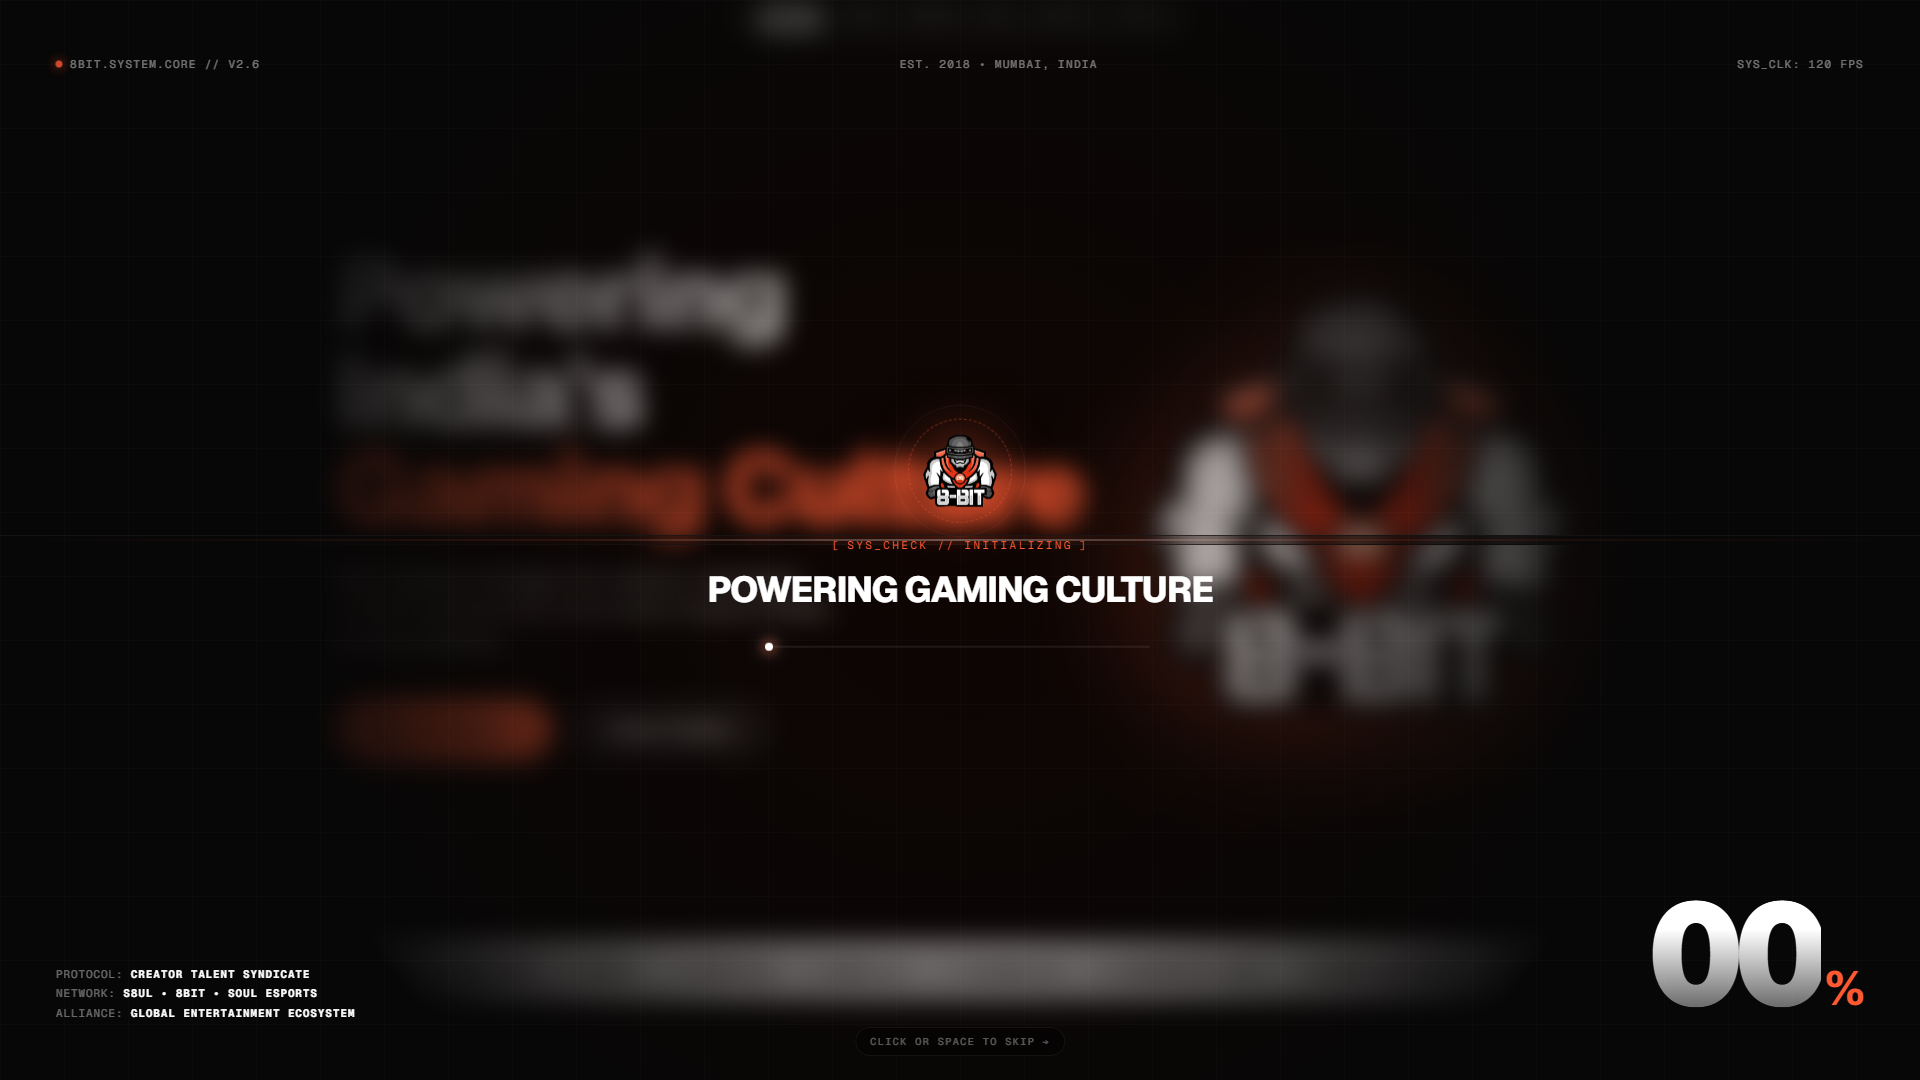
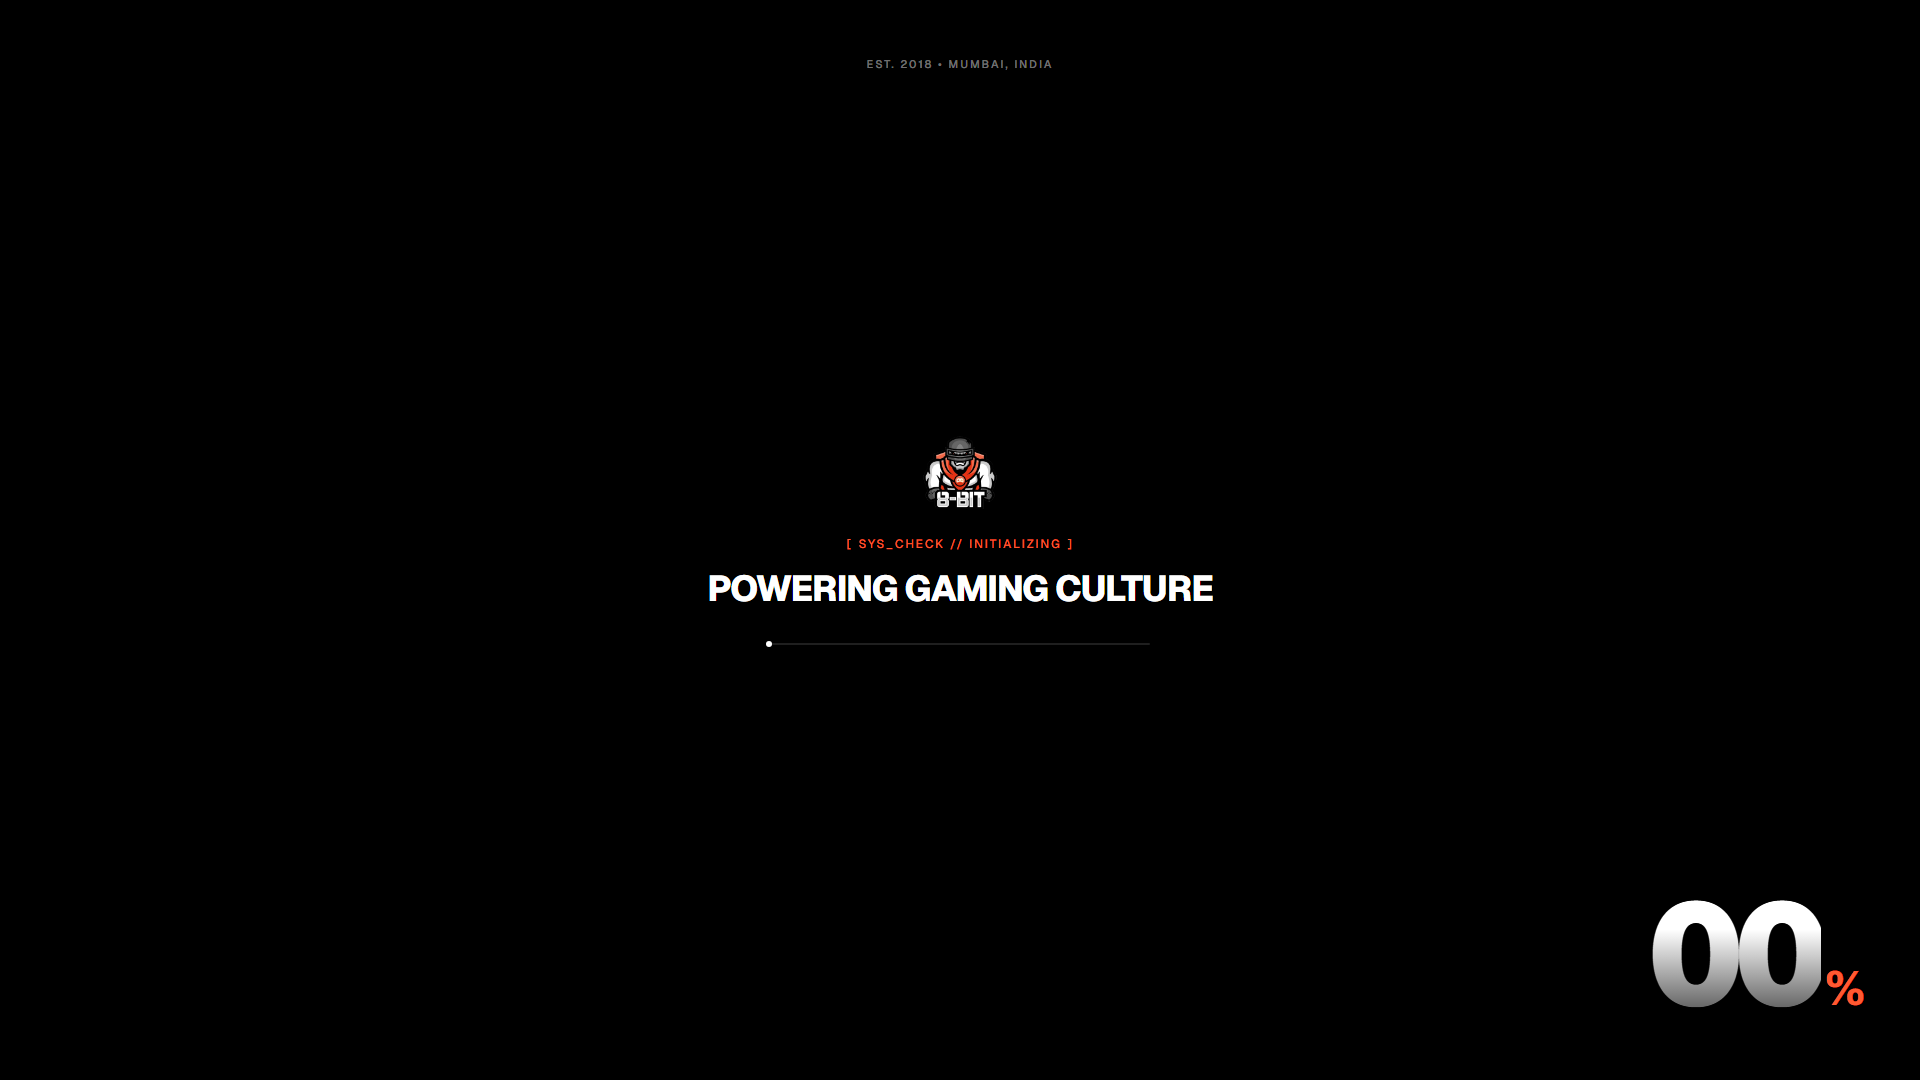
feat(preloader): apply custom design refinements to Concept 1 - solid black bg, matte minimal styling, pure Geist typography, clean UI without telemetry clutter

diff --git a/preloader-preview.html b/preloader-preview.html
@@ -211,6 +211,7 @@
       inset: 0;
       width: 100vw;
       height: 100vh;
+      background: #000000;
       z-index: 99990;
       pointer-events: all;
     }
@@ -255,15 +256,17 @@
       inset: 0;
       width: 100%;
       height: 100%;
+      background: #000000;
       overflow: hidden;
       display: flex;
       flex-direction: column;
       justify-content: space-between;
       padding: clamp(24px, 4vw, 56px);
       user-select: none;
+      font-family: var(--font-primary);
     }
 
-    /* Shutter panels */
+    /* Shutter panels - Pure Solid Black, Zero Blur Bleed */
     .telemetry-shutter-top,
     .telemetry-shutter-bottom {
       position: absolute;
@@ -271,35 +274,25 @@
       right: 0;
       width: 100%;
       height: 50.5%;
-      background: #080808;
+      background: #000000;
       z-index: 1;
+      border: none;
       transition: transform 1050ms cubic-bezier(0.85, 0, 0.15, 1);
     }
 
     .telemetry-shutter-top {
       top: 0;
-      border-bottom: 1px solid rgba(255, 255, 255, 0.05);
-      background: radial-gradient(circle at 50% 100%, rgba(255, 89, 49, 0.06) 0%, #070707 65%);
+      background: #000000;
     }
 
     .telemetry-shutter-bottom {
       bottom: 0;
-      border-top: 1px solid rgba(255, 255, 255, 0.05);
-      background: radial-gradient(circle at 50% 0%, rgba(255, 89, 49, 0.06) 0%, #070707 65%);
+      background: #000000;
     }
 
-    /* Luminous horizontal seam beam */
+    /* Seam beam disabled - No glowing lines */
     .telemetry-seam-beam {
-      position: absolute;
-      top: 50%;
-      left: 0;
-      right: 0;
-      height: 1px;
-      background: linear-gradient(90deg, transparent 0%, rgba(255, 89, 49, 0.4) 30%, #FFFFFF 50%, rgba(255, 89, 49, 0.4) 70%, transparent 100%);
-      z-index: 2;
-      transform: translateY(-50%);
-      opacity: 0.6;
-      transition: opacity 300ms ease;
+      display: none;
     }
 
     .preloader-concept-telemetry.is-unveiling .telemetry-shutter-top {
@@ -310,25 +303,14 @@
       transform: translateY(100%);
     }
 
-    .preloader-concept-telemetry.is-unveiling .telemetry-seam-beam {
-      opacity: 0;
-    }
-
     .preloader-concept-telemetry.is-unveiling .telemetry-content {
       opacity: 0;
-      transform: scale(0.96);
+      transform: scale(0.98);
       transition: opacity 350ms ease, transform 550ms cubic-bezier(0.85, 0, 0.15, 1);
     }
 
     .telemetry-grid-bg {
-      position: absolute;
-      inset: 0;
-      background-size: 64px 64px;
-      background-image: 
-        linear-gradient(to right, rgba(255, 255, 255, 0.015) 1px, transparent 1px),
-        linear-gradient(to bottom, rgba(255, 255, 255, 0.015) 1px, transparent 1px);
-      z-index: 2;
-      pointer-events: none;
+      display: none;
     }
 
     .telemetry-content {
@@ -340,34 +322,21 @@
       flex-direction: column;
       justify-content: space-between;
       transition: all 0.4s ease;
+      font-family: var(--font-primary);
     }
 
-    /* Header Telemetry Row */
+    /* Header Row - Centered Established Tag, Pure Geist */
     .telemetry-header {
       display: flex;
-      justify-content: space-between;
-      align-items: flex-start;
-      font-family: var(--font-mono);
-      font-size: 11px;
-      color: rgba(255, 255, 255, 0.45);
-      letter-spacing: 0.12em;
-      text-transform: uppercase;
-      gap: 16px;
-    }
-
-    .telemetry-tag {
-      display: flex;
+      justify-content: center;
       align-items: center;
-      gap: 8px;
-    }
-
-    .telemetry-tag-indicator {
-      width: 6px;
-      height: 6px;
-      background: var(--flame);
-      border-radius: 50%;
-      box-shadow: 0 0 10px var(--flame);
-      animation: audioPulse 1.2s infinite;
+      font-family: var(--font-primary);
+      font-size: 11px;
+      font-weight: 500;
+      color: rgba(255, 255, 255, 0.45);
+      letter-spacing: 0.18em;
+      text-transform: uppercase;
+      width: 100%;
     }
 
     /* Center Stage: Logo Emblem & Kinetic Cycler */
@@ -381,7 +350,7 @@
       align-items: center;
       text-align: center;
       width: 100%;
-      max-width: 680px;
+      max-width: 720px;
       padding: 0 16px;
     }
 
@@ -389,7 +358,7 @@
       position: relative;
       width: 76px;
       height: 76px;
-      margin-bottom: 28px;
+      margin-bottom: 24px;
       display: flex;
       align-items: center;
       justify-content: center;
@@ -399,36 +368,17 @@
       width: 100%;
       height: 100%;
       object-fit: contain;
-      filter: drop-shadow(0 0 28px rgba(255, 89, 49, 0.5));
+      filter: none; /* No glow */
       position: relative;
       z-index: 2;
     }
 
-    .telemetry-logo-ring {
-      position: absolute;
-      inset: -14px;
-      border: 1px dashed rgba(255, 89, 49, 0.4);
-      border-radius: 50%;
-      animation: spinRing 14s linear infinite;
-    }
-
-    .telemetry-logo-ring-outer {
-      position: absolute;
-      inset: -28px;
-      border: 1px solid rgba(255, 255, 255, 0.06);
-      border-radius: 50%;
-    }
-
-    @keyframes spinRing {
-      from { transform: rotate(0deg); }
-      to { transform: rotate(360deg); }
-    }
-
-    /* Kinetic Status Words */
+    /* Kinetic Status Words - Pure Geist, No glow */
     .telemetry-status-eyebrow {
-      font-family: var(--font-mono);
-      font-size: 11px;
-      letter-spacing: 0.22em;
+      font-family: var(--font-primary);
+      font-size: 12px;
+      font-weight: 500;
+      letter-spacing: 0.16em;
       color: var(--flame);
       text-transform: uppercase;
       margin-bottom: 12px;
@@ -453,6 +403,7 @@
       display: flex;
       align-items: center;
       justify-content: center;
+      font-family: var(--font-primary);
       font-size: clamp(22px, 3.8vw, 36px);
       font-weight: 800;
       letter-spacing: -0.03em;
@@ -460,14 +411,14 @@
       text-transform: uppercase;
     }
 
-    /* Razor Progress Track */
+    /* Razor Progress Track - Solid Flat Flame, No Glow */
     .telemetry-progress-rail {
       width: 100%;
       max-width: 380px;
       height: 2px;
-      background: rgba(255, 255, 255, 0.08);
+      background: rgba(255, 255, 255, 0.12);
       border-radius: 2px;
-      margin-top: 32px;
+      margin-top: 30px;
       position: relative;
       overflow: visible;
     }
@@ -475,47 +426,34 @@
     .telemetry-progress-fill {
       height: 100%;
       width: 0%;
-      background: linear-gradient(90deg, #FFB658, var(--flame));
+      background: var(--flame);
       border-radius: 2px;
       position: relative;
-      box-shadow: 0 0 16px var(--flame-glow);
+      box-shadow: none; /* No glow */
       transition: width 60ms linear;
     }
 
     .telemetry-progress-fill::after {
       content: '';
       position: absolute;
-      right: -3px;
-      top: -3px;
-      width: 8px;
-      height: 8px;
+      right: -2px;
+      top: -2px;
+      width: 6px;
+      height: 6px;
       background: #FFFFFF;
       border-radius: 50%;
-      box-shadow: 0 0 12px var(--flame), 0 0 20px #FFFFFF;
+      box-shadow: none; /* No glow */
     }
 
-    /* Footer Telemetry Row */
+    /* Footer Telemetry Row - Aligned Right for Counter */
     .telemetry-footer {
       display: flex;
-      justify-content: space-between;
+      justify-content: flex-end;
       align-items: flex-end;
       width: 100%;
-      gap: 20px;
     }
 
-    .telemetry-stats-meta {
-      font-family: var(--font-mono);
-      font-size: 11px;
-      color: rgba(255, 255, 255, 0.4);
-      line-height: 1.8;
-      letter-spacing: 0.08em;
-    }
-
-    .telemetry-stats-meta strong {
-      color: #FFFFFF;
-      font-weight: 600;
-    }
-
+    /* Percentage Counter - Untouched, 100% Preserved */
     .telemetry-counter-block {
       display: flex;
       align-items: baseline;
@@ -762,8 +700,8 @@
     }
 
     body.is-loading .hero-unveiled-stage {
-      transform: scale(1.06);
-      filter: blur(12px);
+      transform: scale(1.02);
+      filter: none;
     }
 
     .mock-header {
@@ -1190,25 +1128,16 @@
           <div class="preloader-concept-telemetry" id="concept1Wrap">
             <div class="telemetry-shutter-top"></div>
             <div class="telemetry-shutter-bottom"></div>
-            <div class="telemetry-seam-beam"></div>
-            <div class="telemetry-grid-bg"></div>
 
             <div class="telemetry-content">
-              <!-- Header Telemetry -->
+              <!-- Header -->
               <div class="telemetry-header">
-                <div class="telemetry-tag">
-                  <div class="telemetry-tag-indicator"></div>
-                  <span>8BIT.SYSTEM.CORE // V2.6</span>
-                </div>
                 <div>EST. 2018 &bull; MUMBAI, INDIA</div>
-                <div>SYS_CLK: <span id="telemetryFps">120</span> FPS</div>
               </div>
 
               <!-- Center Stage: Logo Emblem & Word Cycler -->
               <div class="telemetry-center">
                 <div class="telemetry-logo-emblem">
-                  <div class="telemetry-logo-ring"></div>
-                  <div class="telemetry-logo-ring-outer"></div>
                   <img src="images-for-landing-page/logo_2.webp" alt="8Bit Logo">
                 </div>
 
@@ -1231,22 +1160,14 @@
                 </div>
               </div>
 
-              <!-- Footer Telemetry -->
+              <!-- Footer -->
               <div class="telemetry-footer">
-                <div class="telemetry-stats-meta">
-                  <div>PROTOCOL: <strong>CREATOR TALENT SYNDICATE</strong></div>
-                  <div>NETWORK: <strong>S8UL &bull; 8BIT &bull; SOUL ESPORTS</strong></div>
-                  <div>ALLIANCE: <strong>GLOBAL ENTERTAINMENT ECOSYSTEM</strong></div>
-                </div>
-
                 <div class="telemetry-counter-block">
                   <div class="telemetry-counter-num" id="telemetryCounter">00</div>
                   <div class="telemetry-counter-unit">%</div>
                 </div>
               </div>
             </div>
-
-            <div class="preloader-skip-hint" id="skipHint">Click or Space to Skip &rarr;</div>
           </div>
         `;
       }
@@ -1381,8 +1302,16 @@
           }, 240);
         }
 
-        skipBtn.addEventListener('click', (e) => {
-          e.stopPropagation();
+        if (skipBtn) {
+          skipBtn.addEventListener('click', (e) => {
+            e.stopPropagation();
+            if (state.rafId) cancelAnimationFrame(state.rafId);
+            finish();
+          });
+        }
+
+        wrap.addEventListener('click', (e) => {
+          if (e.target.closest('.lab-controls-dock')) return;
           if (state.rafId) cancelAnimationFrame(state.rafId);
           finish();
         });
@@ -1409,7 +1338,7 @@
             playTickSound(800 + currentPct * 12);
           }
 
-          if (Math.random() < 0.06) {
+          if (fpsEl && Math.random() < 0.06) {
             fpsEl.textContent = (118 + Math.floor(Math.random() * 5)).toString();
           }
 
